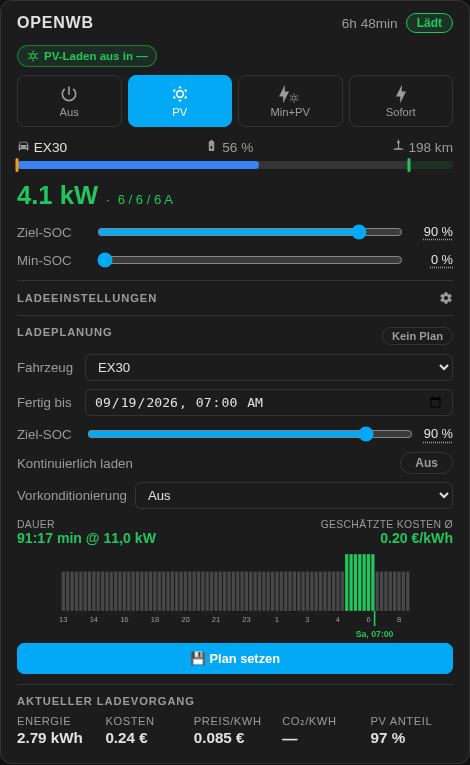
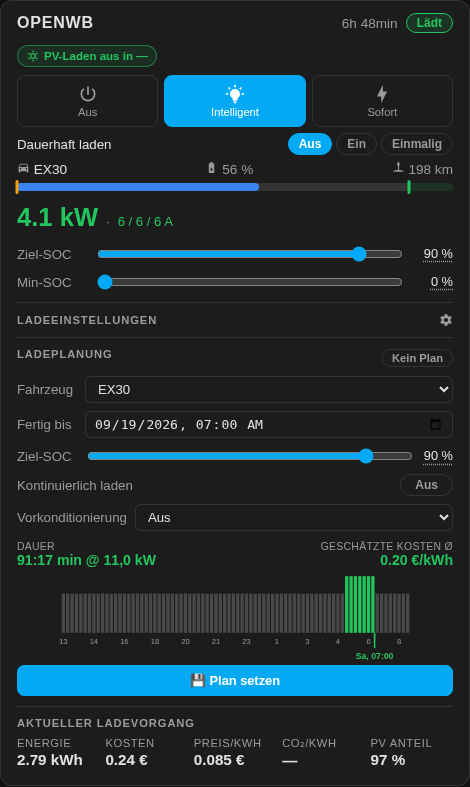
Modes of evcc 0.316: no_pv keeps the smart mode only with a tariff, always charge gets its own buttons

diff --git a/dist/evcc-card.js b/dist/evcc-card.js
@@ -1394,15 +1394,17 @@ const loadpointView = {
     // depend on whether a dynamic tariff is available (smartCostAvailable). The
     // ha-evcc integration exposes no such flag, so we proxy it via a valid
     // tariff sensor value (same signal used by the smart-cost block below).
-    // Obsolete once evcc offers a real 'smart' mode, hence the hasSmart guard.
+    // With a real 'smart' mode only the [Off, Now] case is left to do; before
+    // that, 'pv' stands in for it.
     let hidden    = [];
     let pvAsSmart = false;
-    if (hidePv && !hasSmart) {
+    if (hidePv) {
       const isCo2     = (attr(this._hass, ents.smart_cost_limit, "unit_of_measurement") ?? "") === "g/kWh";
       const tariffId  = `sensor.${this._getPrefix()}${isCo2 ? "tariff_co2" : "tariff_grid"}`;
       const smartCost = !isNaN(parseFloat(this._hass.states[tariffId]?.state ?? "NaN"));
-      if (smartCost) { hidden = ["minpv"];        pvAsSmart = true; }  // [Off, Smart, Now]
-      else           { hidden = ["pv", "minpv"]; }                     // [Off, Now]
+      if (hasSmart)        { if (!smartCost) hidden = ["smart"]; }   // [Off, Smart, Now] or [Off, Now]
+      else if (smartCost)  { hidden = ["minpv"]; pvAsSmart = true; } // [Off, Smart, Now]
+      else                 { hidden = ["pv", "minpv"]; }             // [Off, Now]
     }
 
     const buttons = Object.entries(CHARGE_MODES)
@@ -1448,7 +1450,7 @@ const loadpointView = {
       "once": this._t("alwaysChargeOnce"),
     };
     const buttons = options.map(opt => `
-        <button class="phase-btn ${opt === current ? "active" : ""}"
+        <button class="pill-btn ac-btn ${opt === current ? "active" : ""}"
                 data-entity="${entityId}" data-value="${escAttr(opt)}">
           ${LABELS[opt] ?? escHtml(opt)}
         </button>`).join("");
@@ -1462,7 +1464,7 @@ const loadpointView = {
     return `
       <div class="select-row alwayscharge-row">
         <span${hint ? ` title="${escAttr(hint)}"` : ""}>${this._t("alwaysCharge")}</span>
-        <div class="phase-btn-group">${buttons}</div>
+        <div class="pill-btn-group">${buttons}</div>
       </div>`;
   },
 
@@ -1794,6 +1796,12 @@ const loadpointView = {
     this._fresh("button.phase-btn").forEach(btn => {
       btn.addEventListener("click", () => {
         this._pressGroupButton(btn, ".phase-btn-group", ".phase-btn");
+      });
+    });
+
+    this._fresh("button.ac-btn").forEach(btn => {
+      btn.addEventListener("click", () => {
+        this._pressGroupButton(btn, ".pill-btn-group", ".ac-btn");
       });
     });
   },
@@ -2539,13 +2547,13 @@ const sliderCss = `
 
       .selects { margin-bottom: 10px; }
       .select-row { display: flex; justify-content: space-between; align-items: center; font-size: .83rem; margin-bottom: 6px; flex-wrap: wrap; gap: 4px; }
-      .phase-btn-group { display: flex; gap: 4px; }
-      button.phase-btn {
+      .phase-btn-group, .pill-btn-group { display: flex; gap: 4px; }
+      button.phase-btn, button.pill-btn {
         padding: 3px 10px; border-radius: 999px; border: 1px solid var(--divider-color);
         background: transparent; color: var(--secondary-text-color);
         cursor: pointer; font-size: .75rem; font-weight: 600; transition: all .15s; white-space: nowrap;
       }
-      button.phase-btn.active { background: var(--primary-color); color: #fff; border-color: var(--primary-color); }
+      button.phase-btn.active, button.pill-btn.active { background: var(--primary-color); color: #fff; border-color: var(--primary-color); }
 `;
 
 // Charge plan block with preview chart, plan mode and repeating plans. Methods are mixed into EvccCard.prototype.

diff --git a/src/views/loadpoint-view.js b/src/views/loadpoint-view.js
@@ -231,15 +231,17 @@ export const loadpointView = {
     // depend on whether a dynamic tariff is available (smartCostAvailable). The
     // ha-evcc integration exposes no such flag, so we proxy it via a valid
     // tariff sensor value (same signal used by the smart-cost block below).
-    // Obsolete once evcc offers a real 'smart' mode, hence the hasSmart guard.
+    // With a real 'smart' mode only the [Off, Now] case is left to do; before
+    // that, 'pv' stands in for it.
     let hidden    = [];
     let pvAsSmart = false;
-    if (hidePv && !hasSmart) {
+    if (hidePv) {
       const isCo2     = (attr(this._hass, ents.smart_cost_limit, "unit_of_measurement") ?? "") === "g/kWh";
       const tariffId  = `sensor.${this._getPrefix()}${isCo2 ? "tariff_co2" : "tariff_grid"}`;
       const smartCost = !isNaN(parseFloat(this._hass.states[tariffId]?.state ?? "NaN"));
-      if (smartCost) { hidden = ["minpv"];        pvAsSmart = true; }  // [Off, Smart, Now]
-      else           { hidden = ["pv", "minpv"]; }                     // [Off, Now]
+      if (hasSmart)        { if (!smartCost) hidden = ["smart"]; }   // [Off, Smart, Now] or [Off, Now]
+      else if (smartCost)  { hidden = ["minpv"]; pvAsSmart = true; } // [Off, Smart, Now]
+      else                 { hidden = ["pv", "minpv"]; }             // [Off, Now]
     }
 
     const buttons = Object.entries(CHARGE_MODES)
@@ -285,7 +287,7 @@ export const loadpointView = {
       "once": this._t("alwaysChargeOnce"),
     };
     const buttons = options.map(opt => `
-        <button class="phase-btn ${opt === current ? "active" : ""}"
+        <button class="pill-btn ac-btn ${opt === current ? "active" : ""}"
                 data-entity="${entityId}" data-value="${escAttr(opt)}">
           ${LABELS[opt] ?? escHtml(opt)}
         </button>`).join("");
@@ -299,7 +301,7 @@ export const loadpointView = {
     return `
       <div class="select-row alwayscharge-row">
         <span${hint ? ` title="${escAttr(hint)}"` : ""}>${this._t("alwaysCharge")}</span>
-        <div class="phase-btn-group">${buttons}</div>
+        <div class="pill-btn-group">${buttons}</div>
       </div>`;
   },
 
@@ -631,6 +633,12 @@ export const loadpointView = {
     this._fresh("button.phase-btn").forEach(btn => {
       btn.addEventListener("click", () => {
         this._pressGroupButton(btn, ".phase-btn-group", ".phase-btn");
+      });
+    });
+
+    this._fresh("button.ac-btn").forEach(btn => {
+      btn.addEventListener("click", () => {
+        this._pressGroupButton(btn, ".pill-btn-group", ".ac-btn");
       });
     });
   },

diff --git a/src/components/soc-control.js b/src/components/soc-control.js
@@ -603,11 +603,11 @@ export const sliderCss = `
 
       .selects { margin-bottom: 10px; }
       .select-row { display: flex; justify-content: space-between; align-items: center; font-size: .83rem; margin-bottom: 6px; flex-wrap: wrap; gap: 4px; }
-      .phase-btn-group { display: flex; gap: 4px; }
-      button.phase-btn {
+      .phase-btn-group, .pill-btn-group { display: flex; gap: 4px; }
+      button.phase-btn, button.pill-btn {
         padding: 3px 10px; border-radius: 999px; border: 1px solid var(--divider-color);
         background: transparent; color: var(--secondary-text-color);
         cursor: pointer; font-size: .75rem; font-weight: 600; transition: all .15s; white-space: nowrap;
       }
-      button.phase-btn.active { background: var(--primary-color); color: #fff; border-color: var(--primary-color); }
+      button.phase-btn.active, button.pill-btn.active { background: var(--primary-color); color: #fff; border-color: var(--primary-color); }
 `;

diff --git a/test/run.py b/test/run.py
@@ -433,11 +433,11 @@ def renderkey(browser, port, t):
     page.evaluate("window.__renders = 0")
     page.evaluate("""() => window.__push(st => {
       const id = 'select.evcc_openwb_mode';
-      st[id] = { ...st[id], attributes: { ...st[id].attributes, options: ['off', 'smart', 'now'] } };
+      st[id] = { ...st[id], state: 'pv', attributes: { ...st[id].attributes, options: ['off', 'pv', 'minpv', 'now'] } };
     })""")
     page.wait_for_timeout(900)
     t.check(page.evaluate("window.__renders") >= 1, "changed select options trigger a render", str(page.evaluate("window.__renders")))
-    t.check(modes() != before and "smart" in modes(), "the mode buttons follow the new options", f"{before} -> {modes()}")
+    t.check(modes() != before and "minpv" in modes(), "the mode buttons follow the new options", f"{before} -> {modes()}")
 
     slider_max = lambda: page.evaluate("""(() => { const el = window.__card.shadowRoot
         .querySelector("input[data-entity='number.evcc_openwb_limit_soc']"); return el ? el.max : null; })()""")
@@ -1166,6 +1166,9 @@ def contracts(browser, port, t):
     page.locator(in_card('button.phase-btn[data-value="3"]')).click(); page.wait_for_timeout(400)
     t.check(last() == exp("select", "select_option", {"entity_id": "select.evcc_openwb_phases_configured", "option": "3"}),
             "phase button → select.select_option phases_configured=3", json.dumps(last()))
+    page.locator(in_card('.alwayscharge-row button.ac-btn[data-value="once"]')).click(); page.wait_for_timeout(400)
+    t.check(last() == exp("select", "select_option", {"entity_id": "select.evcc_openwb_always_charge", "option": "once"}),
+            "always charge button → select.select_option always_charge=once", json.dumps(last()))
     page.locator(in_card('button.smart-cost-clear-btn[data-entity="button.evcc_openwb_smart_cost_limit"]')).click()
     t.check(last() == exp("button", "press", {"entity_id": "button.evcc_openwb_smart_cost_limit"}),
             "clear limit → button.press smart_cost_limit", json.dumps(last()))
@@ -1253,22 +1256,60 @@ def contracts(browser, port, t):
 def tariff_modes(browser, port, t):
     """no_pv mode sets and the co2 tariff variant.
 
-    A loadpoint without solar mirrors evcc's Mode.vue: the PV modes disappear,
-    and if a dynamic tariff is available 'pv' is relabelled as the smart mode.
+    A loadpoint without solar mirrors evcc's Mode.vue: the smart mode stays only
+    while a dynamic tariff is available. On the legacy mode set of evcc before
+    0.316 the PV modes disappear and 'pv' is relabelled as the smart mode.
     Which tariff sensor decides that depends on whether evcc runs on prices or
     on a co2 signal, which the card reads from the smart cost limit's unit.
     """
     t.group("tariff - no_pv mode sets")
     modes = lambda page: page.evaluate("[...window.__card.shadowRoot.querySelectorAll('.mode-btn')].map(b => b.dataset.value)")
+    # The fixture is evcc 0.316 with its real 'smart' mode; the legacy set of
+    # older evcc versions is put on the entity per case.
+    legacy = {"select.evcc_openwb_mode": {"options": ["off", "pv", "minpv", "now"]}}
 
     page = new_page(browser, 480, 1400)
     open_card(page, port, config={"mode": "loadpoint", "loadpoints": ["openwb"]})
-    t.check(modes(page) == ["off", "pv", "minpv", "now"], "with solar: the full mode set", str(modes(page)))
+    t.check(modes(page) == ["off", "smart", "now"], "with solar: the mode set as offered", str(modes(page)))
+    # the always-charge companion sits under the buttons while the mode is smart ...
+    ac = lambda: page.evaluate("[...window.__card.shadowRoot.querySelectorAll('.alwayscharge-row .ac-btn')].map(b => b.dataset.value + (b.classList.contains('active') ? '*' : ''))")
+    t.check(ac() == ["off*", "on", "once"], "smart mode: the always-charge row with its three options", str(ac()))
+    # ... and goes with the entity ha-evcc marks unavailable in any other mode
+    page.evaluate("""() => {
+      const st = { ...window.__hass.states };
+      st['select.evcc_openwb_mode'] = { ...st['select.evcc_openwb_mode'], state: 'now' };
+      st['select.evcc_openwb_always_charge'] = { ...st['select.evcc_openwb_always_charge'], state: 'unavailable' };
+      window.__hass.states = st;
+      window.__card.hass = { ...window.__hass, states: st };
+    }""")
+    page.wait_for_timeout(900)
+    t.check(ac() == [], "another mode: the always-charge row is gone", str(ac()))
+    page.close()
+
+    # a real smart mode + no_pv: Mode.vue keeps Smart while a tariff is available and drops it otherwise
+    page = new_page(browser, 480, 1400)
+    open_card(page, port, config={"mode": "loadpoint", "loadpoints": ["openwb"], "no_pv": ["openwb"]},
+              set={"select.evcc_openwb_mode": "off"})
+    got = modes(page)
+    t.check(got == ["off", "smart", "now"], "no_pv with a price tariff: the offered smart mode stays", str(got))
+    page.close()
+    page = new_page(browser, 480, 1400)
+    open_card(page, port, config={"mode": "loadpoint", "loadpoints": ["openwb"], "no_pv": ["openwb"]},
+              set={"sensor.evcc_tariff_grid": "unknown", "select.evcc_openwb_mode": "off"})
+    got = modes(page)
+    t.check(got == ["off", "now"], "no_pv without a tariff: the smart mode is dropped", str(got))
+    page.close()
+
+    t.group("tariff - no_pv on the legacy mode set")
+    page = new_page(browser, 480, 1400)
+    open_card(page, port, config={"mode": "loadpoint", "loadpoints": ["openwb"]}, attrs=legacy, set={"select.evcc_openwb_mode": "pv"})
+    t.check(modes(page) == ["off", "pv", "minpv", "now"], "with solar: the full legacy set", str(modes(page)))
     page.close()
 
     # no_pv + a valid price tariff → [off, smart, now]; 'pv' carries the smart label
     page = new_page(browser, 480, 1400)
-    open_card(page, port, config={"mode": "loadpoint", "loadpoints": ["openwb"], "no_pv": ["openwb"]})
+    open_card(page, port, config={"mode": "loadpoint", "loadpoints": ["openwb"], "no_pv": ["openwb"]},
+              attrs=legacy, set={"select.evcc_openwb_mode": "pv"})
     got = modes(page)
     t.check(got == ["off", "pv", "now"], "no_pv with a price tariff: minpv is dropped", str(got))
     smart_label = page.evaluate("window.__card._t('modeSmart')")
@@ -1279,7 +1320,7 @@ def tariff_modes(browser, port, t):
     # no_pv without any tariff → [off, now]
     page = new_page(browser, 480, 1400)
     open_card(page, port, config={"mode": "loadpoint", "loadpoints": ["openwb"], "no_pv": ["openwb"]},
-              set={"sensor.evcc_tariff_grid": "unknown", "select.evcc_openwb_mode": "off"})
+              attrs=legacy, set={"sensor.evcc_tariff_grid": "unknown", "select.evcc_openwb_mode": "off"})
     got = modes(page)
     t.check(got == ["off", "now"], "no_pv without a tariff: no smart mode either", str(got))
     page.close()
@@ -1287,7 +1328,7 @@ def tariff_modes(browser, port, t):
     t.group("tariff - co2 signal instead of prices")
     # The unit on the smart cost limit is what tells the card to read tariff_co2
     # rather than tariff_grid; with a valid co2 value the smart mode comes back.
-    co2_attrs = {"number.evcc_openwb_smart_cost_limit": {"unit_of_measurement": "g/kWh"}}
+    co2_attrs = {"number.evcc_openwb_smart_cost_limit": {"unit_of_measurement": "g/kWh"}, **legacy}
     page = new_page(browser, 480, 1400)
     open_card(page, port, config={"mode": "loadpoint", "loadpoints": ["openwb"], "no_pv": ["openwb"]},
               attrs=co2_attrs, tariff="co2",

diff --git a/README.md b/README.md
@@ -186,7 +186,7 @@ Adding an evcc entity to a dashboard offers the card straight away: the picker s
 | `no_plan` | `list` | *(none)* | Hide charge plan block for specific charge points |
 | `repeating_plan_vehicles` | `list` | *(all)* | Limit the `repeatplan` mode to specific vehicles |
 | `plan_loadpoint_index` | `map` | *(auto)* | **YAML only** — Override the evcc loadpoint index (1-based) used for the plan preview, e.g. `{ openwb: 1, wp: 2 }`. Only needed if the auto-detected order does not match evcc |
-| `no_pv` | `list` | *(none)* | Treat specific charge points as having **no PV system**, mirroring evcc's own mode logic: **Min+PV** is hidden and **PV** is replaced by a single **Smart** mode when a dynamic tariff is configured (otherwise only **Off** / **Now** remain). See [Charge modes](#charge-modes) below |
+| `no_pv` | `list` | *(none)* | Treat specific charge points as having **no PV system**, mirroring evcc's own mode logic: the **Smart** mode is offered only when a dynamic tariff is configured (otherwise only **Off** / **Now** remain). See [Charge modes](#charge-modes) below |
 | `disabled_loadpoints` | `string` | `hide` | How to treat charge points disabled in the evcc configuration (ha-evcc 2026.8.8+): `hide` removes them from the card, `dim` shows them grayed out with a "Disabled" badge, `show` keeps the previous behavior |
 | `site_details` | `string` | `expanded` | `collapsed` to hide the IN/OUT detail table by default in `site` and `flow` mode |
 | `charge_current_settings` | `string` | `collapsed` | `expanded` to show charge settings expanded by default |
@@ -205,7 +205,7 @@ Adding an evcc entity to a dashboard offers the card straight away: the picker s
 
 The main charge point view. For each discovered charge point it shows:
 
-- Charge mode buttons (Off / PV / Min+PV / Now) - see [Charge modes](#charge-modes) for when which mode is shown
+- Charge mode buttons (Off / Smart / Now, plus the **Always charge** row of the Smart mode) - see [Charge modes](#charge-modes) for when which mode is shown
 - Vehicle SoC progress bar with percentage and estimated range
 - Current charging session: energy, cost, duration, phases
 - Sliders: Target SoC, Min SoC - tap the value next to any slider to enter it directly, see [Slider settings](#slider-settings)
@@ -215,15 +215,23 @@ A tap on a value in the header opens the more-info dialog of the ha-evcc entity 
 
 #### Charge modes
 
-The mode selector mirrors evcc's own logic, where the available modes depend on whether the charge point has a PV system (controlled here via the [`no_pv`](#configuration-options) option) and whether a dynamic electricity tariff is configured:
+The card renders the modes the ha-evcc mode entity offers, so it follows whatever evcc version is behind it:
+
+| evcc version | Modes shown |
+| --- | --- |
+| 0.316 and newer | **Off** / **Smart** / **Now**, plus an **Always charge** row (Off / On / Once) under the buttons while the Smart mode is active |
+| before 0.316 | **Off** / **PV** / **Min+PV** / **Now** |
+
+evcc 0.316 replaced the **PV** mode with **Smart** and turned **Min+PV** into the **Always charge** setting of the Smart mode: charge without interruption at least at the minimum current, either permanently (**On**) or for the running session only (**Once**). ha-evcc 2026.8.3 or newer detects this on startup, so after updating evcc, reload the ha-evcc integration once (or restart Home Assistant) for the new modes to appear. Switch devices (a heat pump with SG-Ready, a heating rod) get no Always charge row, as in evcc itself.
+
+The **`no_pv`** option mirrors evcc's mode logic for a charge point without a PV system, where the Smart mode depends on a dynamic electricity tariff:
 
 | Situation | Modes shown |
 | --- | --- |
-| PV system present (default) | **Off** / **PV** / **Min+PV** / **Now** |
 | `no_pv` set + dynamic tariff available | **Off** / **Smart** / **Now** |
 | `no_pv` set + no dynamic tariff | **Off** / **Now** |
 
-> **About the Smart mode:** Without a PV system, charging is driven by electricity tariffs rather than solar surplus, so evcc renames the **PV** mode to **Smart** and drops **Min+PV**. The card does the same: the **Smart** button still sets the same underlying `pv` charge mode, only the label and icon change. A dynamic tariff is detected via the `tariff_grid` (price) or `tariff_co2` (CO2) sensor; if neither reports a value, only **Off** / **Now** are offered.
+> A dynamic tariff is detected via the `tariff_grid` (price) or `tariff_co2` (CO2) sensor; if neither reports a value, only **Off** / **Now** are offered. On an evcc before 0.316 the card does what evcc did then: **PV** is relabelled as **Smart** and still sets the underlying `pv` mode, **Min+PV** is dropped.
 
 The loadpoint header also shows **live action indicators** when EVCC has scheduled a pending phase switch or PV-charging change - e.g. *"Switching to 3-phase in 0:42"* or *"PV charging on in 1:15"*. The chip disappears automatically once the action is executed. Requires ha-evcc with the `phase_action` / `pv_action` sensors exposed.
 

diff --git a/test/README.md b/test/README.md
@@ -18,8 +18,8 @@ Groups in `run.py` (`--only <group>`, repeatable):
 | `interaction` | Direct-input panel on number sliders, select-backed sliders (min/max current), battery boost and the plan target; keyboard writes (none for a key that moved nothing); outside click (inside and outside the card) / tab switch closing the panel, a deferred hass update surviving a panel switch; `hide_settings`, `slider_steps` (matched against the feature key, not the tail of the entity id, and reported in the console when a select-backed slider cannot honour it); plan preview request, fetched again when HA reports a changed precondition or continuous setting (the static preview takes neither, evcc applies the vehicle's settings itself, so they are part of the cache key) and not again for a render with unchanged settings; more-info on the loadpoint header values (status, remaining time, vehicle, SoC, power, currents, session figures) in loadpoint and compact mode, with the slider values kept out and the attribute surviving a live update; the mode buttons mark the pressed one before HA answers and give the mark back when the service call is refused, and a render before HA answers keeps the pressed mode and phase (the written value stands in for the state until HA reports something else); a focused date input or select and a slider drag hold a render back whoever asks for it (the element survives a direct `_render()`), blur, change and pointerup run the deferred render, and a re-mount clears the guard; with a render pending while a dropdown is open, the picked precondition is what goes to HA and the select keeps showing it until HA reports it back, and a typed plan time survives the deferred render (the flush runs after every listener of the event, and the morph leaves a form value alone while the markup has not moved); the charging SoC bar and its running pulse animation are the same objects after a re-render |
 | `editor` | The visual editor emits every field into the config (text, all selects, all checkbox groups), emits the complete config rather than a patch, and drops a key again when a field returns to its default; the mode switch re-renders the form; `stats_period` shows the default of the current mode instead of a preselected period and keeps a legacy value selected without rewriting it |
 | `escaping` | Names that are free text in an evcc/HA configuration reach the DOM as text: card title, vehicle title, loadpoint title, PV device title, unit of measurement, the session names and the currency from the WebSocket API, the config dump and a vehicle id inside an attribute. Each payload has to appear verbatim and create no element |
-| `contracts` | Every writing control calls the right HA service with the right payload: mode, phases, clear-limit buttons, boost chip, continuous charging, preconditioning, vehicle select, set/delete plan (a vehicle plan in percent; a guest vehicle gets an error instead of a call the integration would silently drop, and its delete addresses the loadpoint by its evcc index), slider release, battery discharge control, battery selects |
-| `tariff` | Loadpoints without solar (`no_pv`): which mode buttons remain, and `pv` relabelled as the smart mode when a tariff is available; the same on a co2 signal, where the card must read `tariff_co2` instead of `tariff_grid`; plan preview in g/kWh with a price counter-check |
+| `contracts` | Every writing control calls the right HA service with the right payload: mode, always charge, phases, clear-limit buttons, boost chip, continuous charging, preconditioning, vehicle select, set/delete plan (a vehicle plan in percent; a guest vehicle gets an error instead of a call the integration would silently drop, and its delete addresses the loadpoint by its evcc index), slider release, battery discharge control, battery selects |
+| `tariff` | The mode set of the evcc 0.316 fixture (`off`, `smart`, `now`) with the always-charge row that comes and goes with the smart mode; loadpoints without solar (`no_pv`): the smart mode stays only with a tariff, and on the legacy mode set of older evcc versions `pv` is relabelled as the smart mode; the same on a co2 signal, where the card must read `tariff_co2` instead of `tariff_grid`; plan preview in g/kWh with a price counter-check |
 | `traffic` | Plan preview traffic rules promised to ha-evcc: one call per target change, none while idle, cache hit on repeat, one call per slider drag |
 | `priority` | Regression for #170: drag and drop reorders the rows without jitter, apply writes the new priorities |
 | `locales` | All 8 locale files share the same keys, `index.json` is complete, no untranslated key reaches the DOM in any language |
